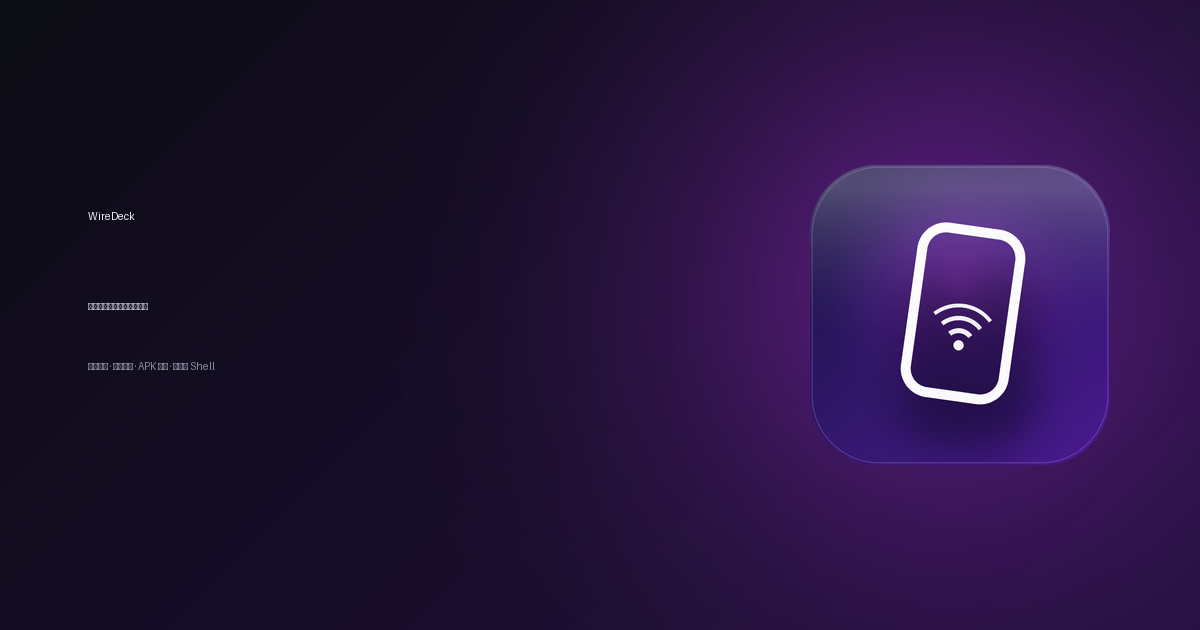
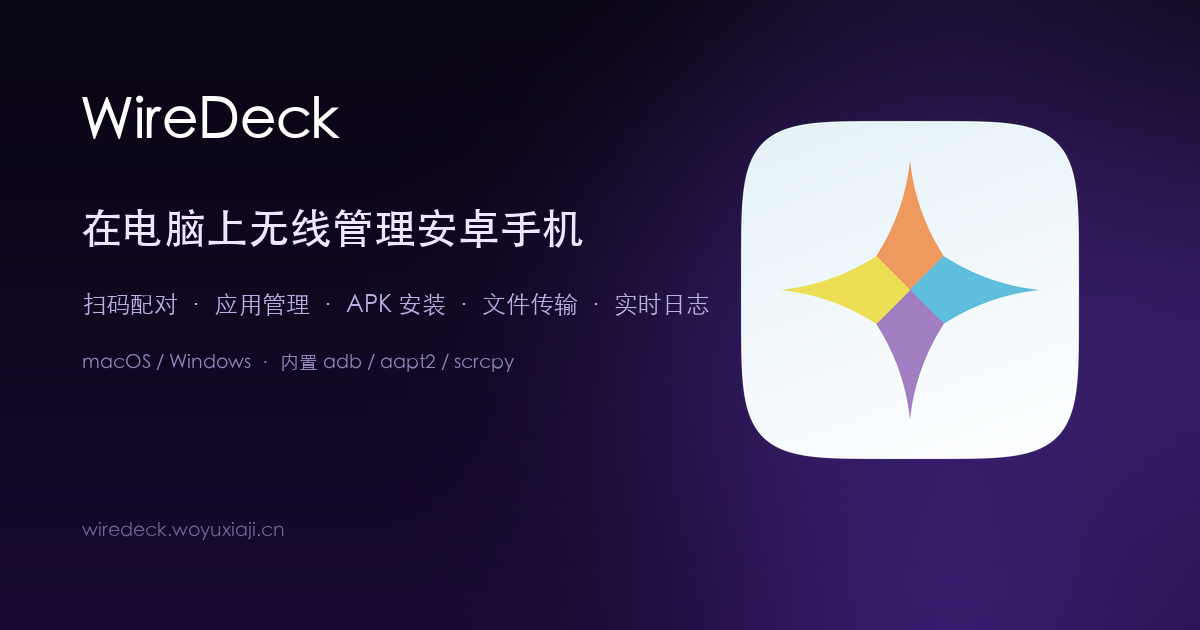
docs: 重做社交分享图（中文正常渲染 + 新图标）

diff --git a/website/index.html b/website/index.html
@@ -12,7 +12,7 @@
     <meta property="og:title" content="WireDeck — 无线 ADB 桌面控制台" />
     <meta property="og:description" content="在电脑上无线管理安卓手机：扫码配对、应用管理、APK 安装、文件传输、实时日志与 Shell。内置 adb，无需 SDK。" />
     <meta property="og:url" content="https://wiredeck.woyuxiaji.cn/" />
-    <meta property="og:image" content="https://wiredeck.woyuxiaji.cn/assets/og-image.png" />
+    <meta property="og:image" content="https://wiredeck.woyuxiaji.cn/assets/og-image.png?v=202610311" />
     <meta name="twitter:card" content="summary_large_image" />
     <link rel="stylesheet" href="style.css?v=202610306" />
     <link rel="icon" href="assets/icon.png?v=202610311" />

diff --git a/website/docs.html b/website/docs.html
@@ -14,7 +14,7 @@
     <meta property="og:url" content="https://wiredeck.woyuxiaji.cn/docs.html" />
     <meta
       property="og:image"
-      content="https://wiredeck.woyuxiaji.cn/assets/og-image.png"
+      content="https://wiredeck.woyuxiaji.cn/assets/og-image.png?v=202610311"
     />
     <meta name="twitter:card" content="summary_large_image" />
     <link rel="stylesheet" href="style.css?v=202610303" />

diff --git a/website/changelog.html b/website/changelog.html
@@ -13,7 +13,7 @@
     />
     <meta
       property="og:image"
-      content="https://wiredeck.woyuxiaji.cn/assets/og-image.png"
+      content="https://wiredeck.woyuxiaji.cn/assets/og-image.png?v=202610311"
     />
     <meta name="twitter:card" content="summary_large_image" />
     <link rel="stylesheet" href="style.css?v=202610303" />
